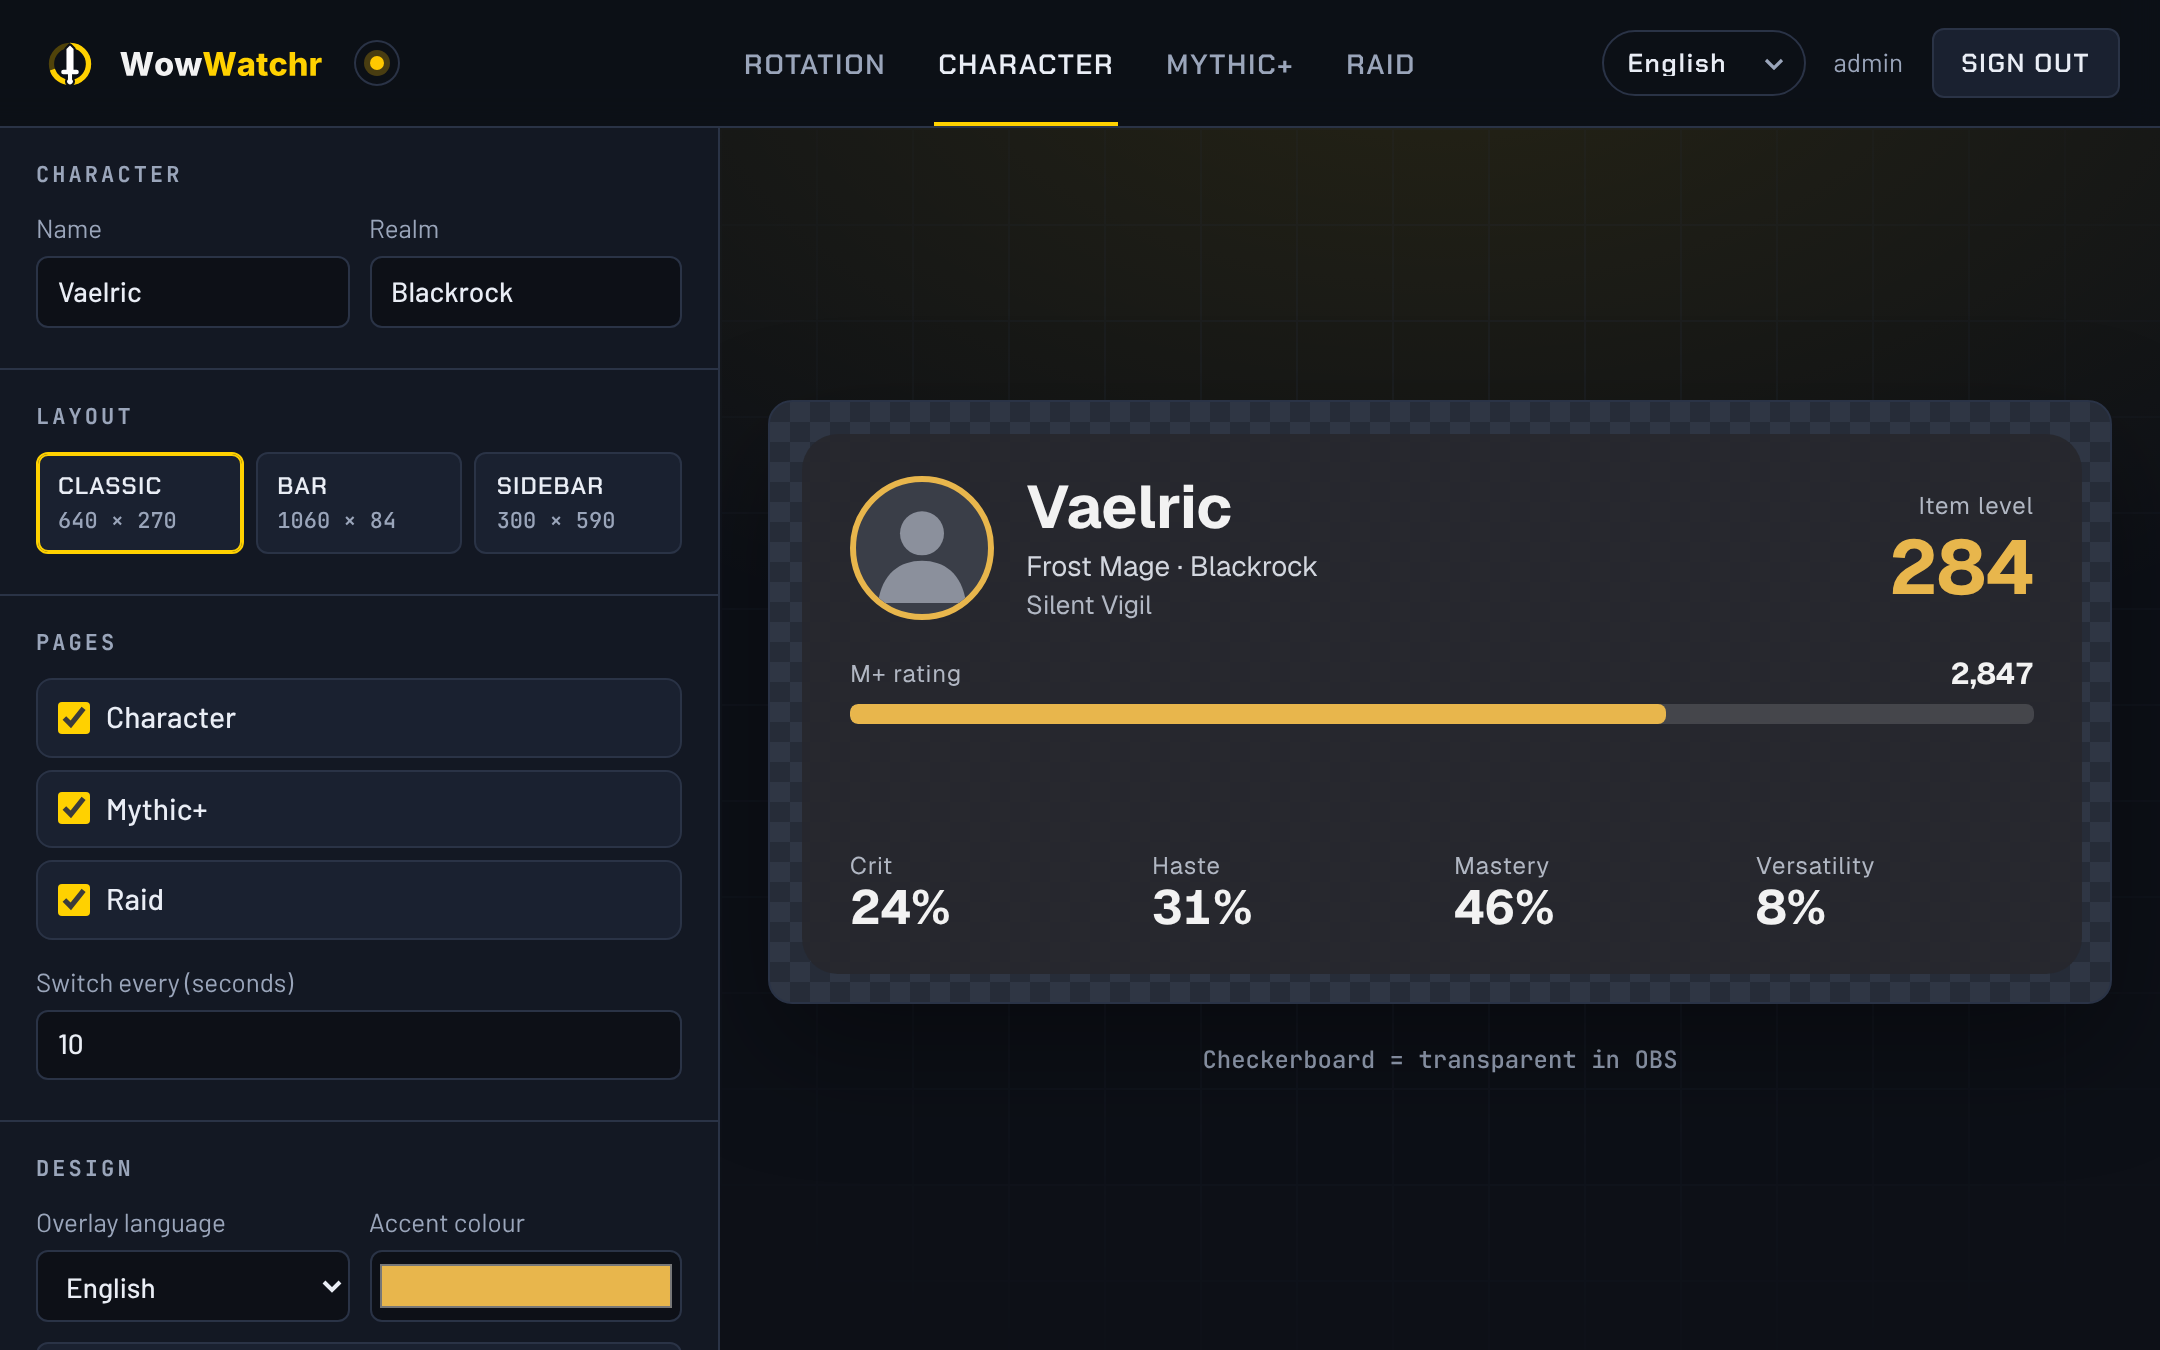
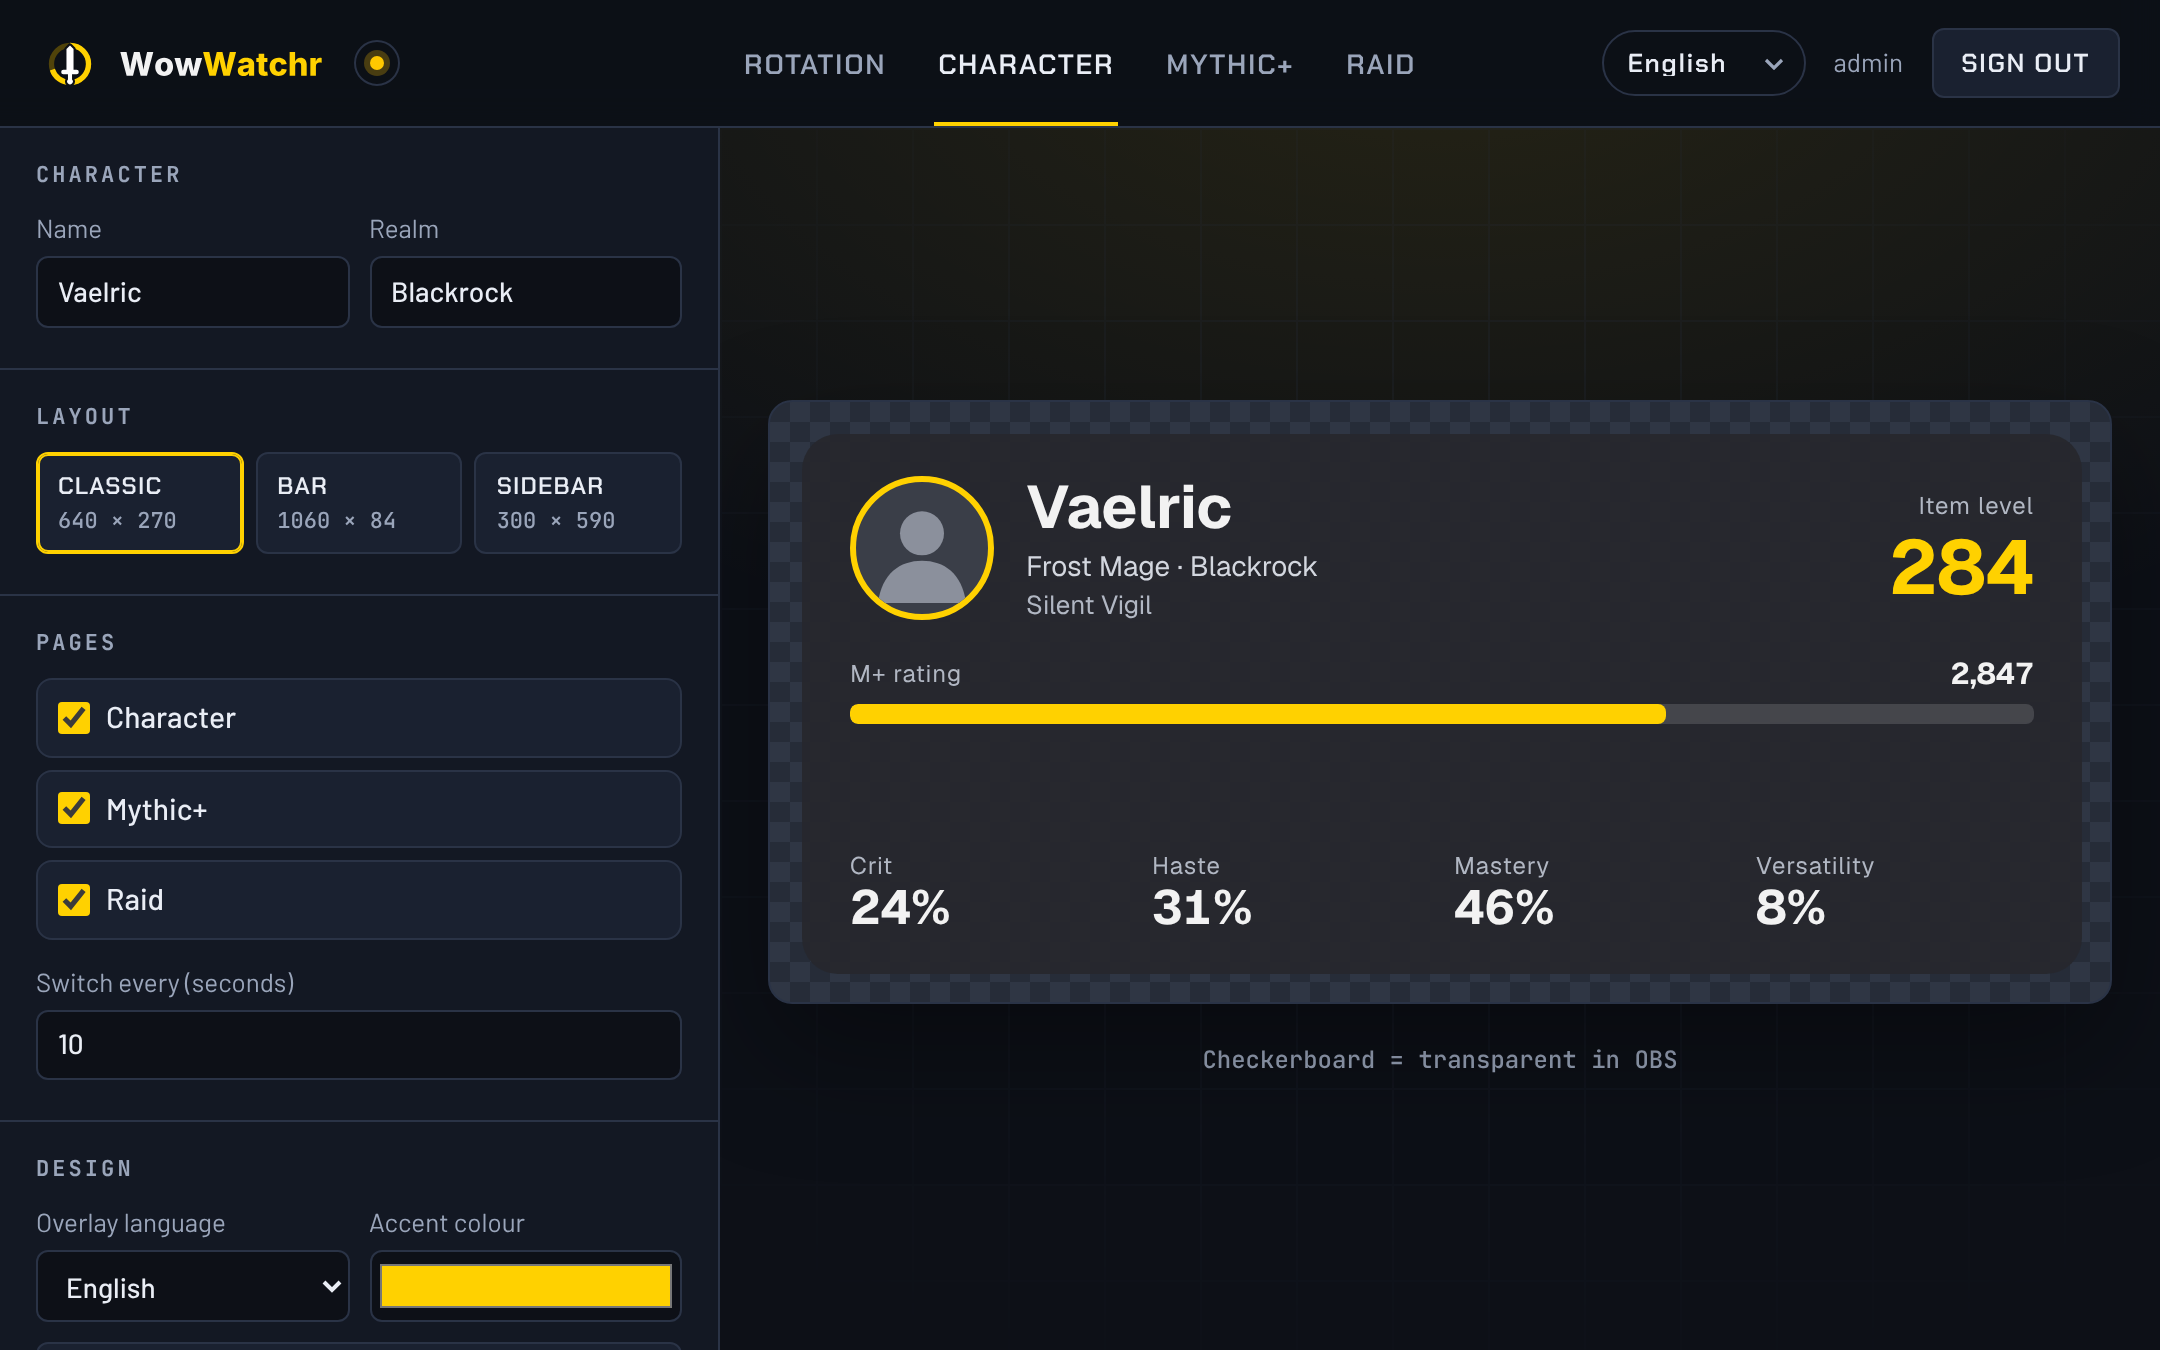
README like the other Watchrs: overlay GIF, editor GIF, layout screenshots, troubleshooting

diff --git a/README.md b/README.md
@@ -5,43 +5,53 @@
   </picture>
 </h1>
 
-A World of Warcraft stats overlay for OBS, and part of the Watchrs family next to [FaceitWatchr](https://github.com/Fersehet/FaceitWatchr) and [YoutubeWatchr](https://github.com/Fersehet/YoutubeWatchr). You host it yourself, pick a layout in the editor, and OBS shows it as a browser source.
+Show your **World of Warcraft** stats in your OBS stream: character, Mythic+ and raid progress, as a card, a slim bar or a sidebar. You host it yourself, design the overlay in the editor, and OBS shows it as a browser source. WowWatchr is part of the Watchrs family next to [FaceitWatchr](https://github.com/Fersehet/FaceitWatchr) and [YoutubeWatchr](https://github.com/Fersehet/YoutubeWatchr).
 
 <p align="center">
-  <img src="docs/screenshots/overlay.png" alt="Finished overlay as it appears in OBS" width="420">
+  <img src="docs/screenshots/overlay.gif" alt="The Classic overlay switching through its three pages: Character, Mythic+ and Raid" width="640">
 </p>
+
+- Three pages: **Character** (item level, Mythic+ rating, secondary stats), **Mythic+** (rating, best key, recent dungeons) and **Raid** (progress, kills and best parse for Normal, Heroic and Mythic)
+- Three layouts: a **Classic** card, a slim **Bar** and a tall **Sidebar**
+- One OBS URL that switches through the pages on its own, or one URL per page
+- An editor in your browser with a live preview, protected by a login, and every change shows up in OBS right away
+- Editor and overlay in English, German, Russian and French
 
 > **Status:** demo mode. The overlay and editor work, but they show sample data. Real character data comes next.
 
 ## What it looks like
 
-**Editor:** pick a layout, switch pages on or off, choose the accent colour and copy the OBS links. The tabs at the top switch the preview between the pages.
+**Editor:** pick a layout, switch pages on or off, change the accent colour, character name or overlay language. The preview and OBS follow every change right away.
 
-![Editor with overlay preview](docs/screenshots/editor.png)
+![The editor: switching between the Classic, Bar and Sidebar layouts, trying accent colours and renaming the character, with the preview updating live](docs/screenshots/editor.gif)
 
-**Sign-in:** the editor is protected by a login, the overlay for OBS is not.
+![Editor with the overlay preview](docs/screenshots/editor.png)
+
+**Classic** (640 × 270): a card in the corner.
+
+![Classic layout: Character, Mythic+ and Raid page](docs/screenshots/layout-classic.png)
+
+**Bar** (1060 × 84): a slim strip that covers little of the game.
+
+![Bar layout: Character, Mythic+ and Raid page](docs/screenshots/layout-bar.png)
+
+**Sidebar** (300 × 590): a tall column beside the game.
+
+<p align="center">
+  <img src="docs/screenshots/layout-sidebar.png" alt="Sidebar layout: Character, Mythic+ and Raid page" width="720">
+</p>
+
+**Sign-in:** the editor needs a login, the overlay for OBS does not.
 
 ![Sign-in page](docs/screenshots/login.png)
 
-## What it shows
+The screenshots show the sample character of the demo mode.
 
-- **Character:** item level, Mythic+ rating and secondary stats
-- **Mythic+:** your rating, best key and recent dungeons
-- **Raid:** progress, kills and best parse for Normal, Heroic and Mythic
+## Requirements
 
-## Layouts
-
-| Layout | Size for OBS | Best for |
-| --- | --- | --- |
-| Classic | 640 × 270 | A card in the corner, like FaceitWatchr |
-| Bar | 1060 × 84 | A slim strip that covers little of the game |
-| Sidebar | 300 × 590 | A tall column beside the game |
-
-The editor and overlay are available in English, German, Russian and French.
+- [Node.js](https://nodejs.org) 22.13 or newer
 
 ## Setup and start
-
-You need [Node.js](https://nodejs.org) 22.13 or newer.
 
 ```bash
 git clone https://github.com/Fersehet/WowWatchr.git
@@ -62,20 +72,36 @@ Then start it:
 npm start
 ```
 
-Open **http://localhost:3312** in your browser and sign in with user `admin` and your password. Set `PORT` in `.env` to use a different port.
+Open **http://localhost:3312** in your browser and sign in with user `admin` and your password. Enter your character name and realm in the editor and pick a layout.
 
 ## Adding it to OBS
 
-1. Copy a URL from **Add to OBS** in the editor.
+1. In the editor under **Add to OBS**, copy a URL, e.g. `http://localhost:3312/overlay`.
 2. In OBS choose **Add source → Browser** and paste the URL.
-3. Enter the width and height shown in the editor.
+3. Enter the width and height shown in the editor for your layout.
 
-There is one URL that rotates through the enabled pages, and one URL per page if you would rather switch them yourself. Changes in the editor appear in OBS right away. If the server runs on another machine, use its IP instead of `localhost`. The overlay can be read without signing in, the editor cannot.
+`/overlay` switches through the enabled pages on its own. `/overlay/character`, `/overlay/mplus` and `/overlay/raid` always show one page, if you would rather switch them yourself. If the server runs on another machine, use its IP instead of `localhost`. The overlay can be read without signing in, the editor cannot.
 
 ## Troubleshooting
 
 - **The sign-in page says login is not set up:** put `ADMIN_PASSWORD` into `.env` and restart the server. On Windows, make sure the file is called `.env` and not `.env.txt`.
 - **"Too many attempts":** after 10 wrong passwords the login is locked for up to 15 minutes.
+- **The overlay shows Vaelric from Blackrock and not my character:** WowWatchr is still in demo mode and shows sample data. Real character data comes in a later version.
+- **Nothing shows up in OBS:** open the OBS URL in your browser. If it stays empty there, copy the URL again from the editor under **Add to OBS**. If the server runs on another machine, use its IP instead of `localhost`.
+- **The overlay is cut off in OBS:** set the width and height of the Browser source to the size of your layout: Classic 640 × 270, Bar 1060 × 84, Sidebar 300 × 590.
+- **The overlay doesn't switch pages:** the switching URL only rotates through pages that are ticked under **Pages**, so tick at least two. The time per page is set under **Switch every (seconds)**.
+- **Changes don't show up after an update:** an old server may still be running in the background and holding port `3312`. Close every terminal running `npm start` (or end the `node` processes), then run `npm start` once. If the port is used by something else, set another one, e.g. `PORT=3313` in `.env`.
+- **`npm start` fails right away:** check `node --version`. WowWatchr needs Node.js 22.13 or newer.
+
+## Updating
+
+```bash
+git pull
+npm install
+npm start
+```
+
+Your settings live in `data/` and are kept. More settings (port, login) are listed in `.env.example`.
 
 ## License
 
